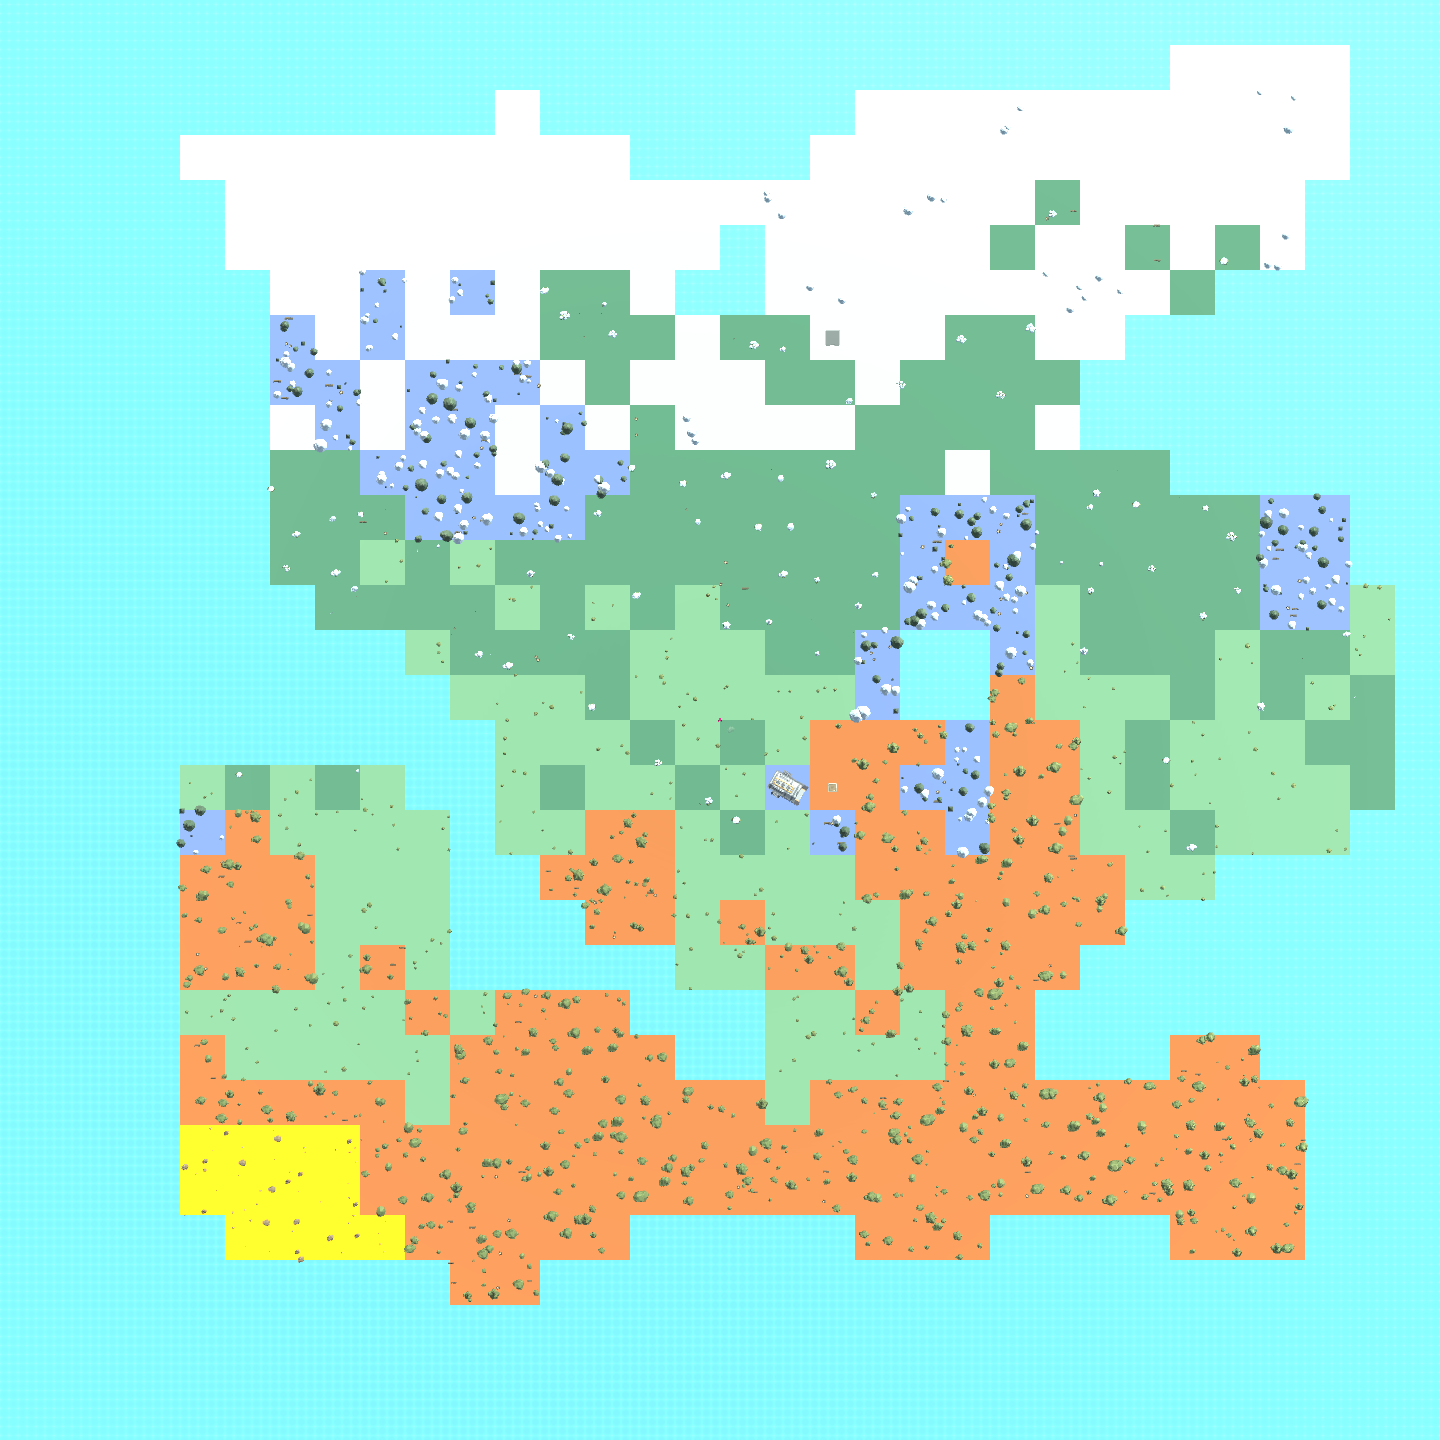
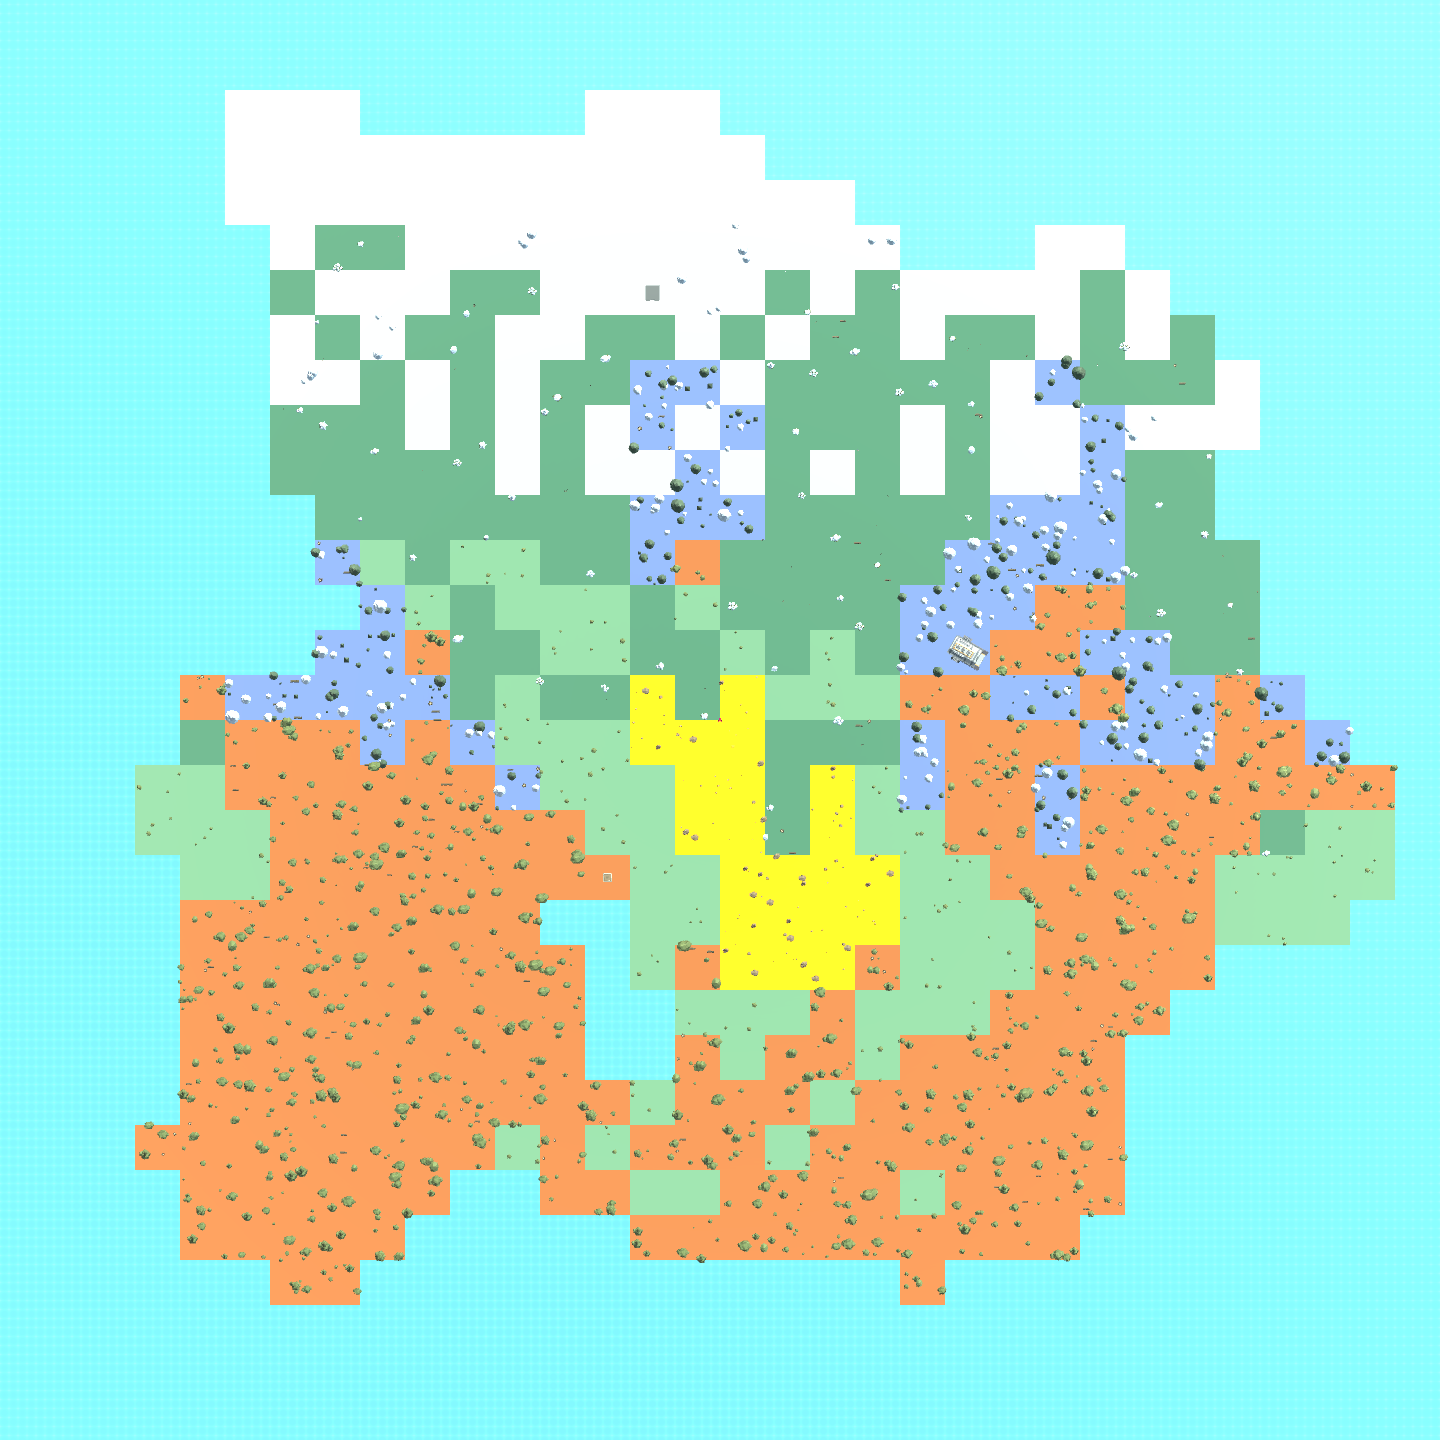
level generator: tweaks

diff --git a/Assets/Scripts/PCG/LevelGenerator.cs b/Assets/Scripts/PCG/LevelGenerator.cs
@@ -32,13 +32,13 @@ namespace PCG
         private MinimapGenerator minimapGenerator;
         private NavMeshSurface navMeshSurface;
 
-        private Transform environmentParent;
-        private Transform floorsParent;
-        private Transform foliageParent;
-        private Transform basesParent;
-        private Transform zombiesParent;
-        private Transform combatRobotsParent;
-        private Transform vehiclesParent;
+        [SerializeField] private Transform invisibleWallsParent;
+        [SerializeField] private Transform floorsParent;
+        [SerializeField] private Transform basesParent;
+        [SerializeField] private Transform foliageParent;
+        [SerializeField] private Transform combatRobotsParent;
+        [SerializeField] private Transform vehiclesParent;
+        [SerializeField] private Transform zombiesParent;
 
         [SerializeField] private GameObject floorPrefab;
         [SerializeField] private GameObject oceanWallCubePrefab;
@@ -100,40 +100,13 @@ namespace PCG
             ocean.GetComponent<MeshRenderer>().material.SetFloat("_RippleDensity", rippleDensity * WorldConfigurations.s_worldGridSize);
         }
 
+        /* Generate the game world */
         public void Generate()
         {
-            // Destroy previous world map
-            if (environmentParent) {
-                Destroy(environmentParent.gameObject);
-            }
-            environmentParent = new GameObject("Environment").transform;
-            environmentParent.parent = transform;
-            floorsParent = new GameObject("Floors").transform;
-            floorsParent.parent = environmentParent;
-            foliageParent = new GameObject("Foliage").transform;
-            foliageParent.parent = environmentParent;
-            basesParent = new GameObject("Bases").transform;
-            basesParent.parent = environmentParent;
-            zombiesParent = new GameObject("Zombies").transform;
-            zombiesParent.parent = transform;
-            combatRobotsParent = new GameObject("Combat Robots").transform;
-            combatRobotsParent.parent = transform;
-            vehiclesParent = new GameObject("Vehicles").transform;
-            vehiclesParent.parent = transform;
-
-            // Clear biomes cells
-            foreach (Biome biome in biomes) {
-                biome.chunks.Clear();
-            }
-
-            /* Generate the game world */
-            // Get a new random value for biomes generation perlin noises
-            whittakerBiomes.RandomizePerlinNoisesOffsets();
-
             // Generate the world map
             GenerateFloors();
-            PlacePlants();
             PlaceBases();
+            PlacePlants();
 
             // Wait for the current frame to finish. This is because there are Destroy() calls in Generate()
             StartCoroutine(LevelGenerationPart2());
@@ -175,7 +148,7 @@ namespace PCG
 
                     // Spawn a floor tile if it's not Ocean
                     if (biomeType == BiomeType.Ocean) {
-                        Instantiate(oceanWallCubePrefab, gridComponent.GetChunkCenterWorld(chunk), Quaternion.identity, environmentParent);
+                        Instantiate(oceanWallCubePrefab, gridComponent.GetChunkCenterWorld(chunk), Quaternion.identity, invisibleWallsParent);
                         continue;
                     }
                     GameObject floor = Instantiate(floorPrefab, gridComponent.GetChunkCenterWorld(chunk), Quaternion.identity, floorsParent);
@@ -184,10 +157,45 @@ namespace PCG
             }
         }
 
+        private void PlaceBases()
+        {
+            int i = 0;
+            foreach (Quest quest in questManager.quests) {
+                List<Chunk> chunks = biomes[quest.baseBiome.GetHashCode()].chunks;
+                Chunk chunk = chunks[chunks.Count / 2];
+                humanActivityChunks.Add(chunk);
+
+                // Get chunk center world coordinate
+                Vector3 chunkCenter = gridComponent.GetChunkCenterWorld(chunk);
+
+                // Place base in the center
+                GameObject researchBase = Instantiate(quest.basePrefab, chunkCenter, Quaternion.identity, basesParent);
+                if (i == 1) {
+                    researchBase.transform.rotation = Quaternion.Euler(0, 120, 0);
+                } else if (i == 2) {
+                    researchBase.transform.Translate(new Vector3(-2.5f, 0, -2.5f));
+                    researchBase.transform.rotation = Quaternion.Euler(0, 180, 0);
+                }
+
+                // Assign this research base to the corresponding quest
+                quest.AssignDestinationGo(researchBase);
+
+                i++;
+            }
+        }
+
         private void PlacePlants()
         {
             foreach (Biome biome in biomes) {
+                if (biome.biomeType == BiomeType.Ocean || biome.biomeType == BiomeType.Mountain) {
+                    continue;
+                }
+
                 foreach (Chunk chunk in biome.chunks) {
+                    if (humanActivityChunks.Contains(chunk)) {
+                        continue;
+                    }
+
                     // Precalculate chunk bottom left world coordinate
                     Vector3 chunkBottomLeft = gridComponent.GetChunkBottomLeftCornerWorld(chunk);
 
@@ -251,39 +259,6 @@ namespace PCG
             go.layer = LayerMask.NameToLayer("Structure");
             // Add component MaterialShifter
             go.AddComponent<MaterialShifterComponent>();
-        }
-
-        private void PlaceBases()
-        {
-            int i = 0;
-            foreach (Quest quest in questManager.quests) {
-                List<Chunk> chunks = biomes[quest.baseBiome.GetHashCode()].chunks;
-                Chunk chunk = chunks[chunks.Count / 2];
-                humanActivityChunks.Add(chunk);
-
-                // Get chunk center world coordinate
-                Vector3 chunkCenter = gridComponent.GetChunkCenterWorld(chunk);
-
-                // Clear all foliage in chunk
-                Collider[] hitColliders = Physics.OverlapBox(chunkCenter, Vector3.one * (WorldConfigurations.c_chunkSize / 2f), Quaternion.identity, LayerMask.GetMask("Structure"));
-                foreach (Collider hitCollider in hitColliders) {
-                    Destroy(hitCollider.gameObject);
-                }
-
-                // Place base in the center
-                GameObject researchBase = Instantiate(quest.basePrefab, chunkCenter, Quaternion.identity, basesParent);
-                if (i == 1) {
-                    researchBase.transform.rotation = Quaternion.Euler(0, 120, 0);
-                } else if (i == 2) {
-                    researchBase.transform.Translate(new Vector3(-2.5f, 0, -2.5f));
-                    researchBase.transform.rotation = Quaternion.Euler(0, 180, 0);
-                }
-
-                // Assign this research base to the corresponding quest
-                quest.AssignDestinationGo(researchBase);
-
-                i++;
-            }
         }
 
         private readonly float navmeshPlacementSampleDistance = 1f;

diff --git a/Assets/Scripts/Managers/GameManager/GameManager.cs b/Assets/Scripts/Managers/GameManager/GameManager.cs
@@ -1,12 +1,10 @@
 using Cinemachine;
-using Entities.Abilities.ActorActivationDistance;
 using Entities.Abilities.ClearingDistance;
 using Entities.Abilities.Input;
 using Entities.Abilities.Observer;
 using Entities.Player;
 using Gameplay.Quests;
 using PCG;
-using Unity.VisualScripting;
 using UnityEngine;
 using UnityEngine.InputSystem;
 using UnityEngine.SceneManagement;

diff --git a/Assets/Scripts/PCG/WhittakerBiomes.cs b/Assets/Scripts/PCG/WhittakerBiomes.cs
@@ -69,7 +69,7 @@ namespace PCG
         }
 
         // Randomize perlin noises sample region
-        public void RandomizePerlinNoisesOffsets()
+        private void RandomizePerlinNoisesOffsets()
         {
             heightPerlinNoiseOffset = Random.Range(0f, 10f);
             humidityPerlinNoiseOffset = Random.Range(0f, 10f);
